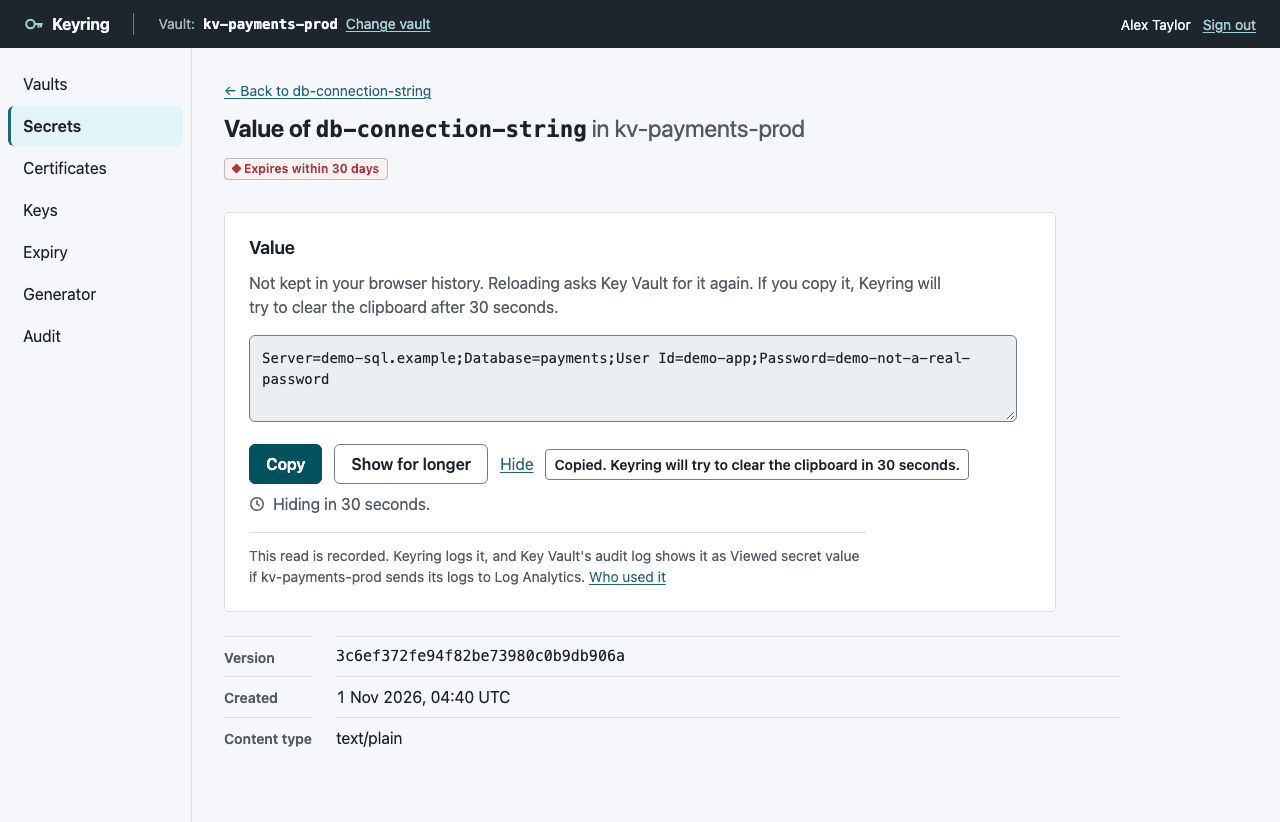
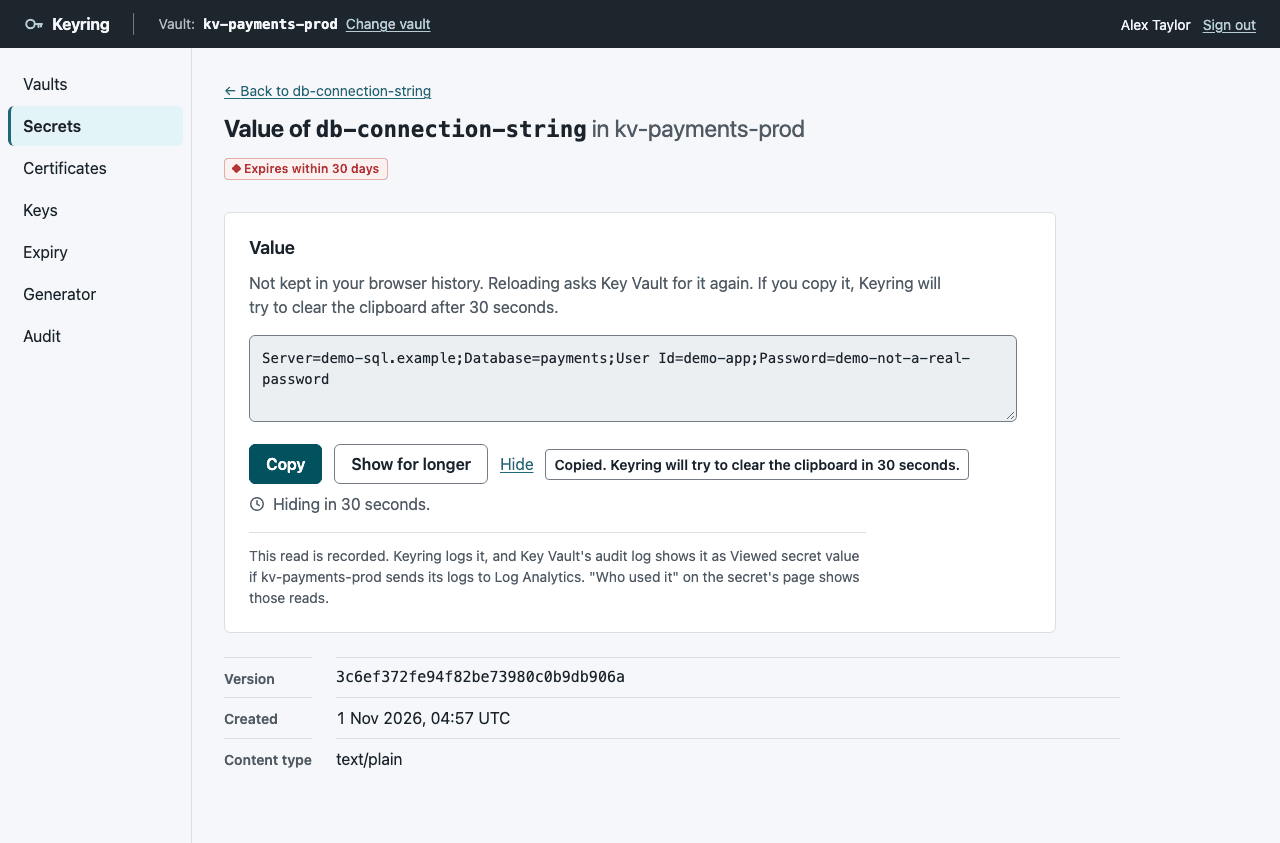
Reveal page: name "Who used it" instead of linking it, so leaving still goes through Hide's clipboard clear

diff --git a/templates/secrets/revealed.html b/templates/secrets/revealed.html
@@ -19,7 +19,7 @@
   </div>
   <p class="muted countdown" data-countdown hidden><svg class="countdown-mark" width="16" height="16" viewBox="0 0 16 16" aria-hidden="true" focusable="false"><circle cx="8" cy="8" r="6.25" fill="none" stroke="currentColor" stroke-width="1.5"/><path d="M8 4.75V8l2.25 1.5" fill="none" stroke="currentColor" stroke-width="1.5" stroke-linecap="round"/></svg><span aria-hidden="true">Hiding in <span data-countdown-secs>{{ clear_after }}</span> seconds.</span><span class="visually-hidden" role="status" data-countdown-announce></span></p>
   <noscript><p class="muted">Copy the value by selecting it. Close or leave this page when you're done.</p></noscript>
-  <p class="muted reveal-note">This read is recorded. Keyring logs it, and Key Vault's audit log shows it as Viewed secret value if {{ vault }} sends its logs to Log Analytics. <a href="{{ shell.vault_prefix() }}/audit?item={{ row.name }}&amp;range=30d&amp;from=secret">Who used it</a></p>
+  <p class="muted reveal-note">This read is recorded. Keyring logs it, and Key Vault's audit log shows it as Viewed secret value if {{ vault }} sends its logs to Log Analytics. "Who used it" on the secret's page shows those reads.</p>
 </section>
 
 <dl class="props">

diff --git a/README.md b/README.md
@@ -28,7 +28,7 @@ A secret's details. The value stays hidden until you choose Show value.
 
 The value after Show value and Copy. Keyring hides it again after 30 seconds and tries to clear the clipboard. A note says the read is recorded.
 
-<img src="docs/images/screenshots/secret-reveal.png" alt="The value of db-connection-string in a bordered monospace box with Copy, Show for longer and Hide, a Copied label saying the clipboard will be cleared in 30 seconds, a Hiding in 30 seconds countdown, and a note that the read is recorded with a Who used it link" width="800">
+<img src="docs/images/screenshots/secret-reveal.png" alt="The value of db-connection-string in a bordered monospace box with Copy, Show for longer and Hide, a Copied label saying the clipboard will be cleared in 30 seconds, a Hiding in 30 seconds countdown, and a note that the read is recorded" width="800">
 
 <details>
 <summary>Creating a secret, with a mistake caught</summary>

diff --git a/design.md b/design.md
@@ -224,8 +224,9 @@ ink-2 at `--text-sm`, and values in ink. It stacks below 30rem.
 - The countdown is text with a clock glyph and tabular figures: "Hiding in 30
   seconds." The words are unchanged.
 - A quiet note says the read is recorded: Keyring logs it, and the vault's
-  audit log shows it if the vault sends its logs to Log Analytics. It links to
-  "Who used it". Generator values aren't read from a vault, so the generator
+  audit log shows it if the vault sends its logs to Log Analytics. It names
+  "Who used it" on the secret's page but doesn't link to it: leaving the page
+  must go through Hide, which waits for the clipboard clear. Generator values aren't read from a vault, so the generator
   has no such note.
 - Values are hidden in print.
 
